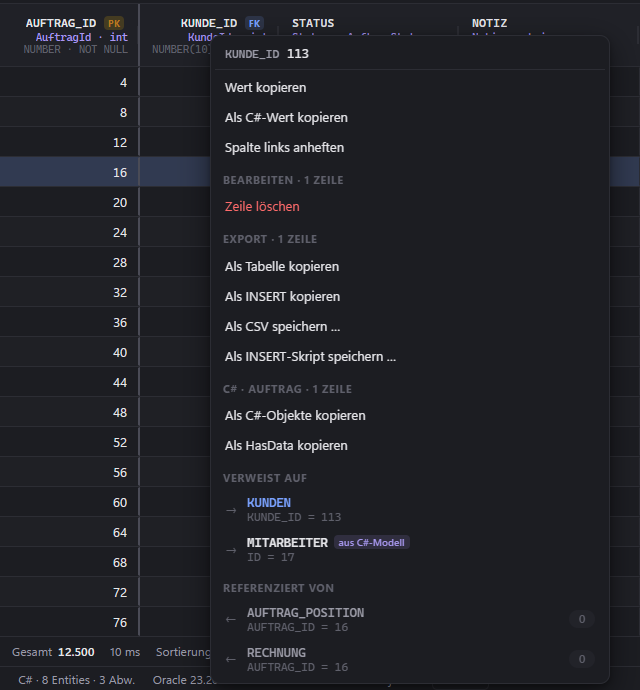
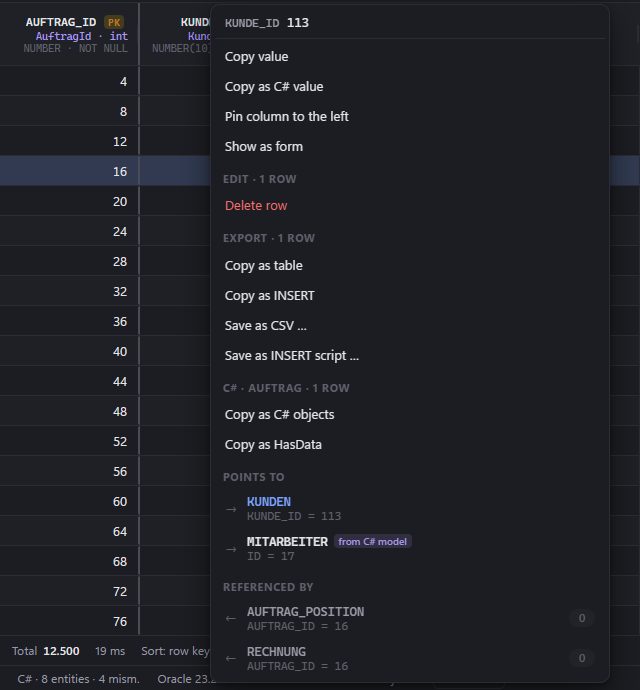
docs: English screenshots, README, protocol and roadmap for WP-29

diff --git a/docs/work-packages.md b/docs/work-packages.md
@@ -35,6 +35,7 @@ Was in den abgeschlossenen Paketen gebaut und entschieden wurde, mit Nachträgen
 | WP-25 | Tastenkürzel einstellbar (Einstellungen › Tastenkürzel, Übersicht aller Kürzel) | 3.16.0 | – |
 | WP-28 | Prozeduren, Funktionen, Packages und Trigger ansehen (Quelltext, Parameter, Fehler, Abhängigkeiten, Quelltextsuche) | 3.17.0 | (0011) |
 | PR #3 | Schattenkopie der Build-Ausgabe für den ModelHost, Modell und LINQ-Konsole nach einem Build neu laden, Hänger-Diagnose als Einstellung (Beitrag von Phillip Ulbricht) | 3.18.0 | 0016 |
+| WP-29 | Oberfläche auf Englisch (Standard) und Deutsch: typisierte resx je Bereich, Sprache in den Einstellungen bzw. `--lang`, Screenshots auf Englisch | 3.19.0 | 0017 |
 | R3a | Fehlerbehebung nach dem Review 3.14.0 (Verbindungsverlust je Verbindung, Schreiben serialisiert, UI-Testprojekt) | 3.14.1 | – |
 | R3b | Struktur-Refactoring nach dem Review 3.14.0 (Schema-Reader, Typwissen, SessionGate, UI-Bausteine, State) | 3.15.0 | – |
 
@@ -389,6 +390,17 @@ Wunsch des Nutzers (2026-10-08), Stufe 1 „nur ansehen“; Ausführen und Bearb
 - E2E (eigener Container `ferret-wp28-e2e` mit `New-SampleDb.ps1`, eigene Instanz, echte Windows-Maus über `realclick.ps1`, CDP-Tastatur, hell und dunkel): Umschalter, Liste (ungültig rot, deaktivierter Trigger grau, Kennzeichen), PKG_ALT → Spezifikation, Fehler (2), Klick → Body Zeile 4/Spalte 23 mit Unterstreichung und Hover; Parameter von PKG_RECHNUNG (Überladungen, IN OUT, `KUNDEN%ROWTYPE`, `SYS_REFCURSOR`, Default); PKG_KONSTANTEN (6.002 Zeilen); verschlüsselte Prozedur (Hinweis); Trigger mit Kopf und Tabellen-Link → RECHNUNG › Abhängigkeiten → Link auf PACKAGE BODY öffnet den Body; Quelltextsuche `faellig_am` → 2 Treffer im Trigger, Klick auf Zeile 7 setzt den Cursor auf den Treffer; Tippen zeigt den Nur-Lesen-Hinweis; Ctrl+F; F5 nach Änderung des Triggers in der DB (Umlaute); Objekt gelöscht + Schema-Refresh → Tab weg; Neustart stellt alle PL/SQL-Tabs mit Ansicht wieder her; Treffer-Hinweis in beide Richtungen. Log ohne `[ERR]`/`[WRN]`.
   - Gefunden und behoben: Monaco zeigt Marker in Nur-Lesen-Editoren standardmäßig nicht (`renderValidationDecorations`); abgeschnittener Platzhalter; springende Spaltenbreiten der Parameter-Tabellen.
   - Nicht per E2E: Objekte anderer Schemas über Synonyme (Integrationstest mit FERRET_OTHER), Abbrechen einer langen Quelltextsuche.
+
+### WP-29 Englische Oberfläche → Release 3.19.0
+Wunsch des Nutzers (2026-10-09): README, CHANGELOG und Screenshots auf GitHub sind englisch, die Oberfläche war nur deutsch. Entscheidungen des Nutzers: Englisch und Deutsch, **Standard Englisch** (auch für bestehende Installationen), Deutsch in den Einstellungen; `[Display]`-Namen aus dem C#-Projekt bleiben in der Windows-Sprache (das Projekt des Nutzers hat nur deutsche Ressourcen); Formatkultur bleibt vorerst (Backlog). Gebaut mit einem Workflow aus mehreren Agenten (Wunsch des Nutzers).
+- **Phase 1 (von Hand):** typisierte resx je Bereich, vom SDK erzeugt (`Directory.Build.targets`, neutrale Sprache Englisch) statt `IStringLocalizer` – statischer Zugriff auch aus State-, Core- und ModelHost-Klassen, fehlender Schlüssel = Compilerfehler, keine neue Abhängigkeit (ADR 0017). `UiLanguage`/`AppSettings.Language`, `--lang=en|de`; die App setzt nur die UI-Kultur und gibt die Windows-Kultur ausdrücklich an `ModelHostRunner`/`ModelCache` (Cache-Schlüssel, `[Display]`). `TextFormat` (Format, Plural), Komponente `Fmt` (Platzhalter als Markup), Sprachauswahl in den Einstellungen, `<html lang>`. Tests: deutsche UI-Kultur für alle Testprojekte (`tests/Shared/UiCulture.cs`), `ResourceTests` je Textklasse (gleiche Schlüssel, keine leeren Texte, gleiche Platzhalter; ModelHost über die Integrationstests). Regeln und Glossar: `docs/localization.md`.
+- **Phase 2 (Workflow, 7 Agenten parallel, je eigener Worktree und Branch):** UI Grid/Editieren, UI SQL/LINQ/Plan, UI Shell/Verbindungen/Workspaces, UI Schema/Modell/Vergleich, Core ClrModel + ModelHost, Core Query/Data/Schema, Core Oracle/Compare/Rest – 1.345 Schlüssel, ohne Merge-Konflikte (eine resx je Bereich). Deutsche Texte wortgleich übernommen (Skriptprüfung: 796 Texte wiedergefunden, der Rest hat jetzt Platzhalter oder ist eine Programmierfehler-Meldung, die regelgemäß englisch im Code steht).
+- **Phase 3:** Übergaben zwischen Bereichen zusammengeführt (Kopiermeldungen des SQL-Ergebnismenüs als ganze Sätze, `ShortcutService.With` entfernt – klebte „ mit Ctrl+Enter“ an Sätze), zweiter Workflow mit 3 Prüfern für das Englische (95 Werte idiomatischer, Glossar-Treue, typografische Apostrophe). Dabei alte deutsche Fehler korrigiert: Singular mit Pluralwort („1 Felder“, „1 Spalten“, „1 Sekunden“), „committed“ → „committet“, „?.“, fehlender Bindestrich.
+- Weitere Umsetzung: Monaco lädt sein deutsches Sprachpaket nur noch bei deutscher Oberfläche; Texte von grid.js und Monaco kommen aus .NET; der ModelHost bekommt `--ui-culture` für seine Meldungen und formatiert Roslyn-Diagnosen damit (`GetMessage(culture)`), `--culture` bleibt die Windows-Kultur für `[Display]`. Die Fehlerleiste von Blazor (`index.html`) bekommt ihren Text beim ersten Rendern.
+- E2E (eigener Container `ferret-wp29` mit `New-SampleDb.ps1`, eigene Instanz mit `--data-dir`, CDP, hell und dunkel): frische Installation startet englisch, `--lang=en` schlägt die gespeicherte Wahl, Umschalten auf Deutsch in den Einstellungen mit Hinweis und Wirkung nach Neustart; Einstellungen, Tastenkürzel, Verbindungsdialog, Grid mit Filter, FK-Menü, Plan, SQL-Editor mit Bind-Variablen, LINQ-Konsole mit Vervollständigung auf Englisch. Screenshots in `docs/images/` neu (englisch), `social-preview.png` neu montiert (Hochladen von Hand). Testverbindung über die App gelöscht (samt Passwort), Container entfernt. Log ohne `[ERR]`.
+  - Gefunden und behoben: **UI-Kultur in einer async-Methode gesetzt** (`App.OnStartup`) – der `ExecutionContext` nahm sie beim Verlassen zurück, Blazor renderte trotz `--lang=en` deutsch (Unit-Tests merken das nicht; Falle in `src/FerretSharp.UI/CLAUDE.md`). Text in CSS (`.linq-console::before { content: "C#-Konsole: " }`) und in der `index.html` – von keiner Suche über C#/Razor gefunden. Roslyn-Diagnosen kamen in der Windows-Sprache.
+  - Nicht per E2E: alle Dialoge und Meldungen einzeln (Ressourcen-Tests und Prüfdurchgang statt Klickpfad), deutsche Oberfläche verbunden.
+- Offen: Formatkultur (Zahlen „1.234,5“, Laufzeit „1,1 s“ und Datumseingabe `TT.MM.JJJJ` auch in der englischen Oberfläche; Eingabehinweise englisch als „DD.MM.YYYY“) – Backlog. Oracle-Fehlermeldungen kommen in der Sprache des Oracle-Clients (Windows-Locale), nicht der Oberfläche.
 
 ## Stabilisierung
 

diff --git a/docs/roadmap.md b/docs/roadmap.md
@@ -6,19 +6,6 @@ Aus der `CLAUDE.md` ausgelagert (Stand 3.14.0). Beim Start eines Pakets den Absc
 
 Pakete aus dem Backlog, nach v3 mit dem Nutzer ausgewählt (2026-10-05). Versionen: Minor-Releases 3.x (nichts Inkompatibles).
 
-### WP-29 Englische Oberfläche (vor WP-22)
-Wunsch des Nutzers (2026-10-09): README, CHANGELOG und Screenshots auf GitHub sind englisch, die Oberfläche bisher nur deutsch (Menüpfade wie „*Einstellungen › Tastenkürzel*“ mitten im englischen Text, deutsche Screenshots unter englischen Bildunterschriften). Vor WP-22, weil WP-22/23/26 viele neue Dialoge bringen, die dann gleich zweisprachig entstehen. Umfang (Zählung 3.18.1, grob): ~1.300–1.500 Texte – Razor ~800 (Text und `title`/`placeholder`/`aria-label`), UI-C# ~300, Core ~250 in 41 Dateien (meist `ClrModel`, `Query`, `Oracle`); 35 Testdateien prüfen deutsche Texte. JS, AG Grid und Monaco haben praktisch keine deutschen Texte. Entscheidungen des Nutzers:
-- **Sprachen:** Englisch und Deutsch. **Standard ist Englisch** (auch für bestehende Installationen ohne gespeicherte Wahl), Deutsch in den Einstellungen wählbar.
-- **Enum-Anzeigenamen aus dem C#-Projekt** (`[Display]`) wechseln nicht mit der Oberflächensprache: Das Projekt des Nutzers hat nur deutsche Übersetzungen. Der ModelHost bekommt weiter die Windows-Kultur (heute `CultureInfo.CurrentUICulture` in `ModelHostRunner` und im Schlüssel von `ModelCache` – vor dem Umstellen der UI-Kultur festhalten, sonst wechselt der Cache-Schlüssel und die Namen fallen auf die neutrale Ressource zurück).
-- **Formatkultur bleibt vorerst deutsch** („1.234,5“, `TT.MM.JJJJ`; 14 Core-Dateien mit `GetCultureInfo("de-DE")`, auch fürs Parsen von Filter- und Editierwerten). Getrennt einstellbar machen ist ein eigener Backlog-Eintrag.
-- Vorschlag zur Umsetzung (beim Start mit dem Nutzer abstimmen):
-  - RCL: `IStringLocalizer` mit resx (geht in Blazor Hybrid); Core: resx mit `ResourceManager` (keine Abhängigkeit auf Microsoft.Extensions.Localization, baut weiter unter Linux). Neutrale Ressource englisch, `.de.resx` deutsch.
-  - Die App setzt `CurrentUICulture` vor dem Start der WebView; Umstellen in den Einstellungen wirkt nach einem Neustart (einfachste Variante). Startschalter `--lang=en|de` wie `--theme`, für Screenshots ohne Änderung der Einstellungen.
-  - Interpolierte Texte als Formatstrings, Plural sauber („1 row“/„N rows“), Texte mit eingebettetem Markup zerlegen. Fachbegriffe einheitlich übersetzen (Workspace, Freischalten, Sandbox, „Spalte ohne Property“) – Glossar im Paketprotokoll.
-  - Tests: bestehende auf `de` festnageln, Tests für `en` ergänzen; ein Test, dass jeder Schlüssel in beiden Sprachen existiert.
-  - Danach: README mit englischen Menünamen, Screenshots in `docs/images/` neu auf Englisch (`docs/e2e-testing.md`). CHANGELOG ab dann mit englischen Menünamen; alte Einträge bleiben als Historie.
-  - Ab WP-29 wird jedes neue Feature zweisprachig gepflegt (in `CLAUDE.md`, Abschnitt 6, „Fertig heißt“ ergänzen).
-
 ### WP-22 DDL im SQL-Editor
 Wunsch des Nutzers (2026-10-06): Tabellen anlegen und ändern, passend zum DB-first-Ablauf („erst DB ändern, dann Entity“). Erste Stufe: DDL im SQL-Editor (und in Skripten) zulassen. Entscheidungen des Nutzers:
 - **Wo:** auf allen schreibbaren Workspaces – Profile ohne „Schreibgeschützt“ sowie **auch Prod nach dem Freischalten** (WP-10). Gesperrte Workspaces nie (READ-ONLY-Transaktion schützt nicht vor DDL, deshalb weiter Abweisung im Editor).

diff --git a/CLAUDE.md b/CLAUDE.md
@@ -141,8 +141,7 @@ Regeln:
 
 ## 8. Als Nächstes (Details und Entscheidungen des Nutzers: `docs/roadmap.md`)
 
-- **WP-29** Englische Oberfläche (Standard Englisch, Deutsch wählbar; `[Display]`-Namen und Formatkultur bleiben deutsch), danach README und Screenshots auf Englisch. Vor WP-22.
-- **WP-22** DDL im SQL-Editor (auf schreibbaren Workspaces, Rollback offener Transaktionen nur nach Bestätigung, `TRUNCATE` bleibt abgewiesen; nach WP-29).
+- **WP-22** DDL im SQL-Editor (auf schreibbaren Workspaces, Rollback offener Transaktionen nur nach Bestätigung, `TRUNCATE` bleibt abgewiesen).
 - **WP-23** Tabellen-Designer + Entity aus Tabelle, Indizes anlegen (nach WP-22).
 - **WP-26** Audit-/Historientabellen aus einer Vorlagendatei (nach WP-22/23).
 - PL/SQL ausführen und bearbeiten (Stufen 2/3 nach WP-28) stehen im Backlog; Bearbeiten hängt an der PL/SQL-Entscheidung von WP-22/26.

diff --git a/README.md b/README.md
@@ -23,7 +23,8 @@
 </picture>
 
 > [!NOTE]
-> The user interface is in German. Code, commits and this README are in English; the design notes in `docs/` are German.
+> The user interface is in English and German (*Settings › General › Language*; English by default). Code, commits and
+> this README are in English; the design notes in `docs/` are German.
 
 ## Why
 
@@ -154,7 +155,7 @@ files.
 
 ## Keyboard shortcuts
 
-The defaults – every one of them can be changed under *Einstellungen › Tastenkürzel*, which also lists the fixed keys.
+The defaults – every one of them can be changed under *Settings › Shortcuts*, which also lists the fixed keys.
 
 | Keys | Action |
 |---|---|

diff --git a/samples/README.md b/samples/README.md
@@ -16,4 +16,4 @@ It maps the sample database (`tools/sample-db`, including `05-clr-model.sql` and
 
 To try it: build the solution (or `dotnet build samples/FerretSharp.SampleModel.Data`), then in FerretSharp edit the
 connection to the sample database and enter
-`samples\FerretSharp.SampleModel.Data\FerretSharp.SampleModel.Data.csproj` under "C#-Modell".
+`samples\FerretSharp.SampleModel.Data\FerretSharp.SampleModel.Data.csproj` under “C# model”.
